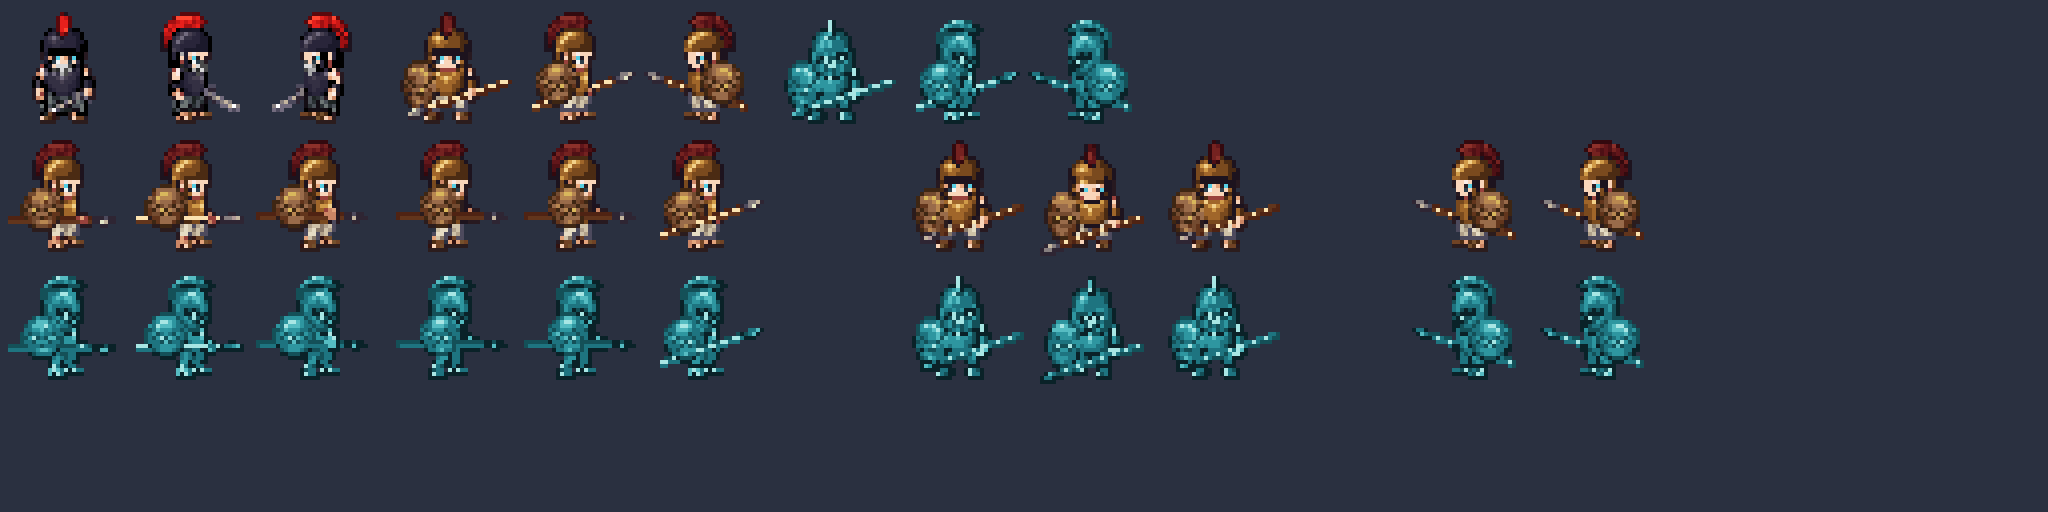
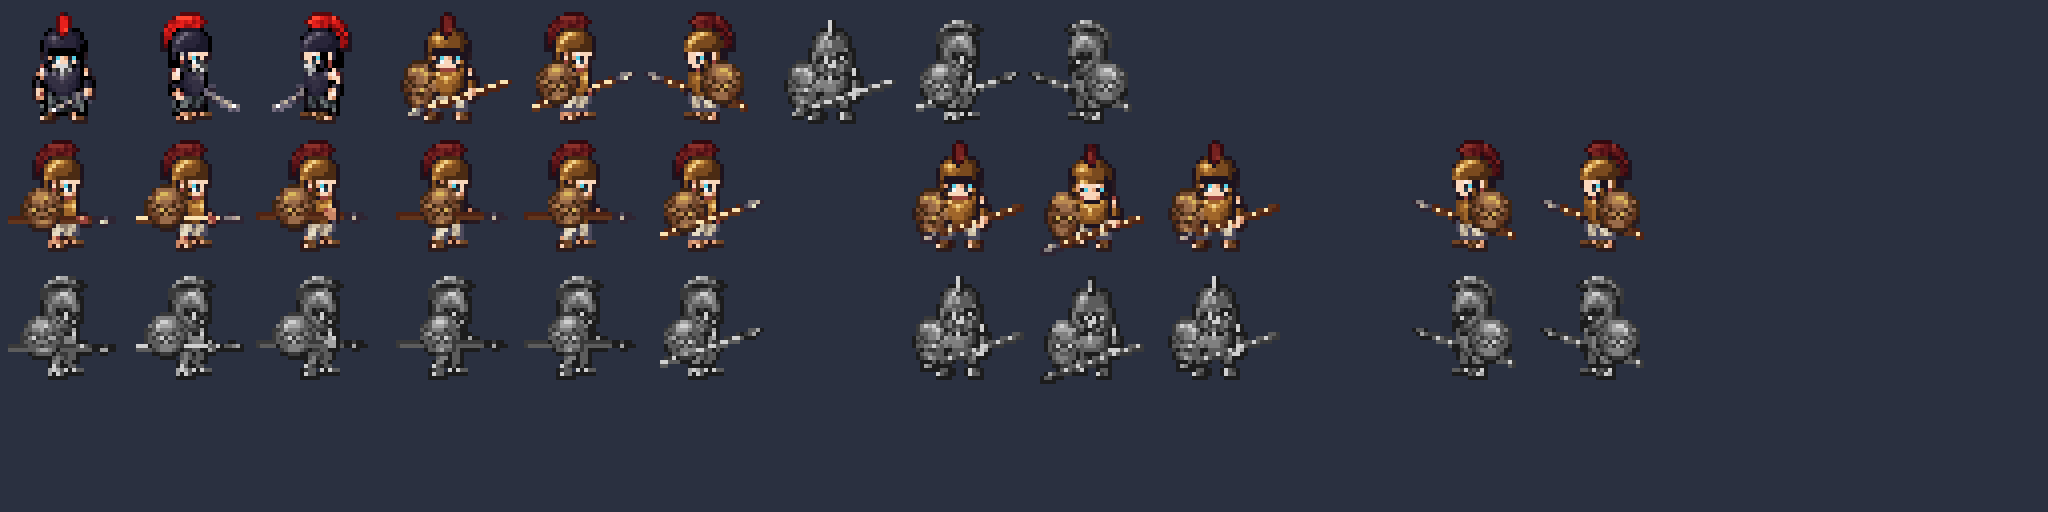
Draw the Trojans in plain gray instead of teal.
Every Trojan pixel, skin included, is now one of six neutral grays picked
by lightness, so they read as a single tone with no blue. They stay lighter
than Odysseus' near-black iron, and he keeps the only red crest.

Claude-Session: https://claude.ai/code/session_01D1k4Bi5z98432HQ6HwEwHd

diff --git a/src/game/warriorConfig.js b/src/game/warriorConfig.js
@@ -4,7 +4,7 @@
 // north, north-west, west, south-west. One frame each, left to right.
 // Both sheets are Universal LPC soldiers built by art/scripts/build_soldiers_lpc.py.
 // Greeks wear bronze armor like Odysseus' with a dull maroon crest, so his
-// dark iron and bright scarlet crest still stand out. Trojans are all teal.
+// dark iron and bright scarlet crest still stand out. Trojans are all one gray tone.
 // These sheets are idle only. The scene bobs a frame while a warrior moves.
 // The breathing, spear-thrust, and hit animations are in soldierAnimations.js.
 //

diff --git a/art/scripts/build_soldiers_lpc.py b/art/scripts/build_soldiers_lpc.py
@@ -9,8 +9,8 @@ Who looks like what:
             sword. He is the only one with a cape, a beard, or a sword.
   Greeks    the same legion helmet and plate cuirass as Odysseus, but in
             bronze, with a dull maroon crest, a spear, and a Spartan shield.
-  Trojans   one color only, head to toe, skin included: every pixel is
-            redrawn in a teal ramp by how light it is. A different helmet
+  Trojans   one tone only, head to toe, skin included: every pixel is
+            redrawn in a gray ramp (ASH) by how light it is. A different helmet
             (barbuta with a ridge crest), spear and shield.
 
 Output (all 32x32 frames, origin bottom-center, in public/assets/sprites/npcs):
@@ -120,8 +120,12 @@ def trojan_layers() -> list[dict]:
 
 TEAMS = {"greek": greek_layers, "trojan": trojan_layers}
 
+# Trojans in one neutral tone: plain grays, no hue at all, like a statue.
+# Lighter overall than Odysseus' near-black iron, so he still stands out.
+ASH = ["#1C1C1C", "#3A3A3A", "#5C5C5C", "#808080", "#A6A6A6", "#D0D0D0"]
+
 # Teams drawn in a single color. The ramp runs darkest to lightest.
-MONOCHROME = {"trojan": TEAL}
+MONOCHROME = {"trojan": ASH}
 
 
 def monochrome(image: Image.Image, ramp_colors: list[str]) -> Image.Image:

diff --git a/CREDITS.md b/CREDITS.md
@@ -160,7 +160,7 @@ Cinzel and Source Sans 3 are loaded from Google Fonts, the same way the rest of 
 
 Everything in `public/assets/sprites/npcs/greek_lpc/` and `public/assets/sprites/npcs/trojan_lpc/` is composed from the same Universal LPC generator commit as Odysseus. Rebuild with `python3 art/scripts/build_soldiers_lpc.py` (needs Pillow). The script header lists every output sheet and its layout.
 
-Greeks: light skin, linen pants, leather sandals, a bronze plate cuirass, bronze bracers, a bronze legion helmet, a dull maroon legion crest, a bronze spear, and a Spartan shield. Trojans: the same body and head, with every other piece recolored to one teal ramp, a barbuta helmet, and a ridge crest. All recolors are palette swaps of the generator's rows.
+Greeks: light skin, linen pants, leather sandals, a bronze plate cuirass, bronze bracers, a bronze legion helmet, a dull maroon legion crest, a bronze spear, and a Spartan shield. Trojans: the same body and head, a barbuta helmet, and a ridge crest, then every pixel (skin included) repainted in one gray ramp by lightness. The other recolors are palette swaps of the generator's rows.
 
 Layer credits, from the generator's CREDITS.csv:
 
